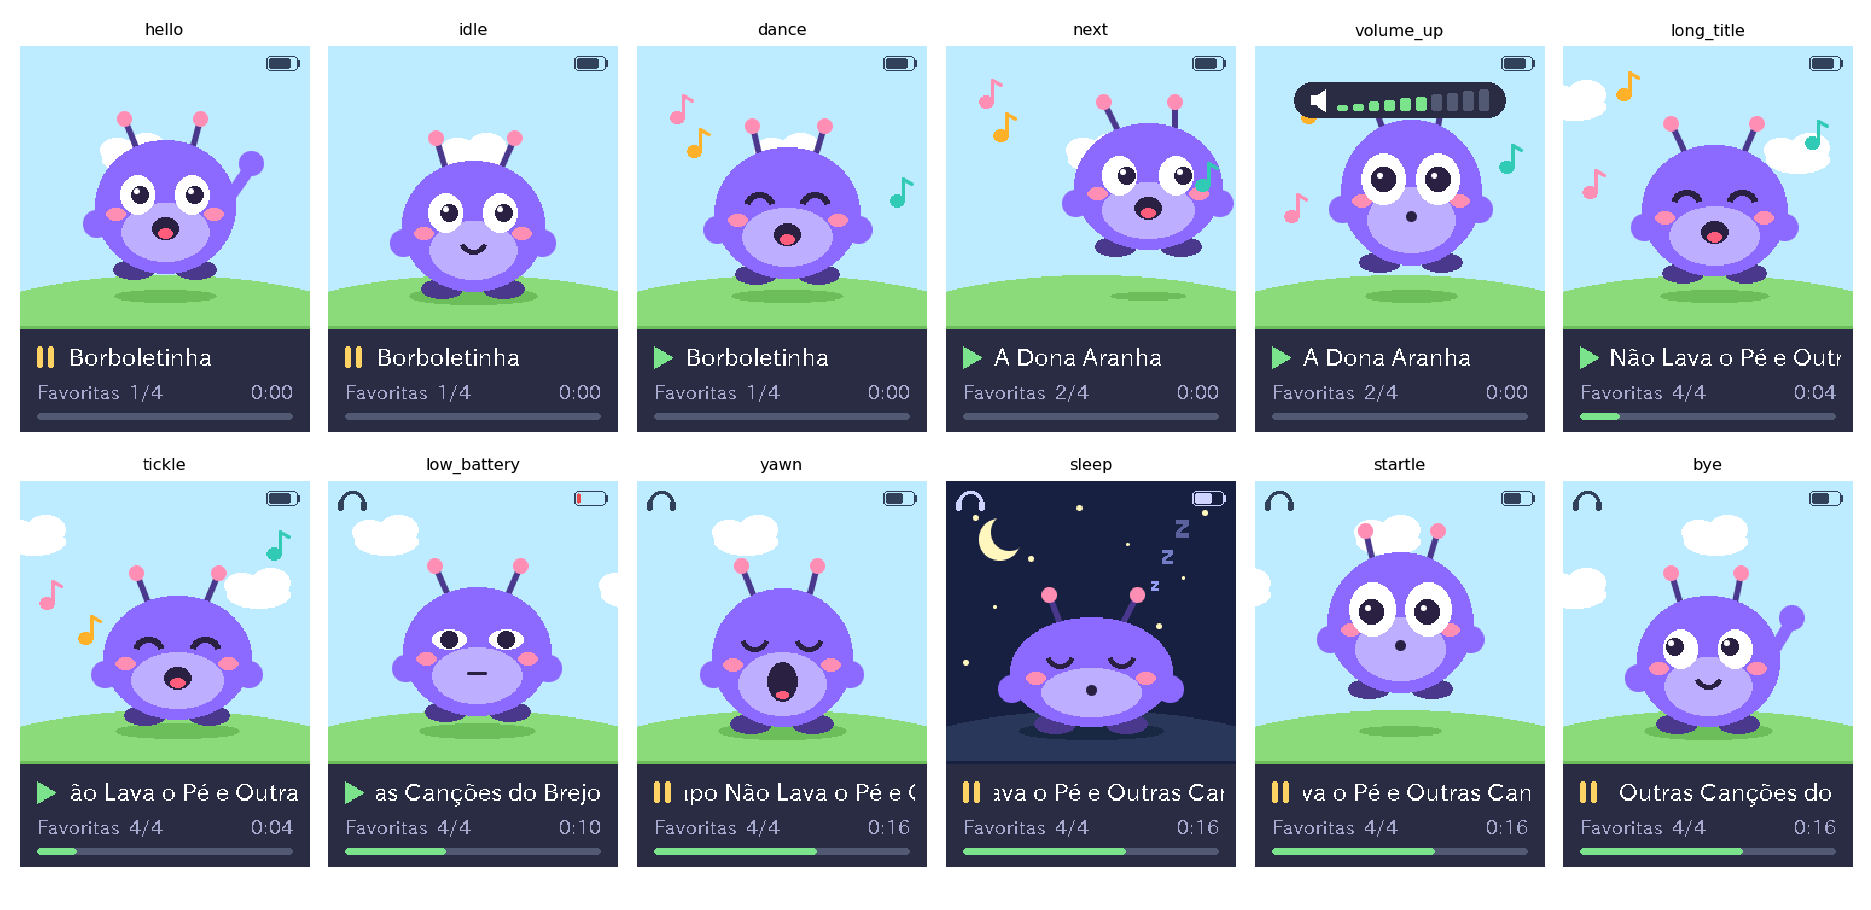
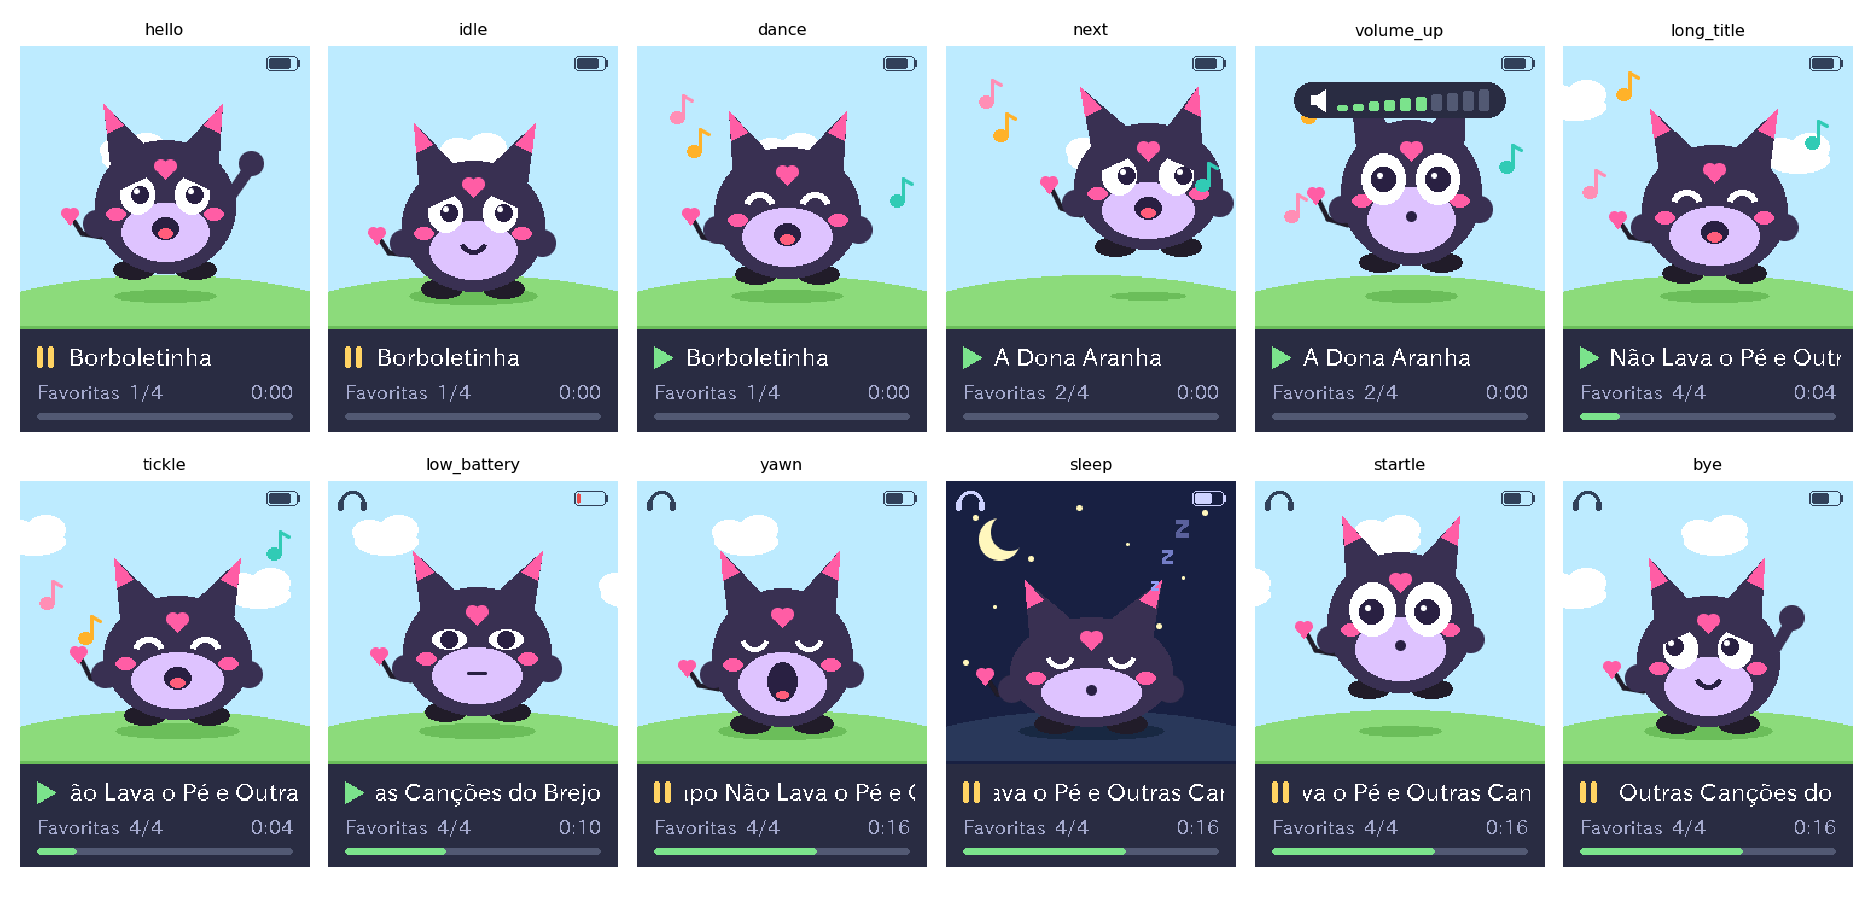
Restyle the pet: dark, cute imp look with pointed ears and heart tail

diff --git a/firmware/src/pet.cpp b/firmware/src/pet.cpp
@@ -159,10 +159,11 @@ Pet::Pose Pet::pose() const {
 void Pet::draw(lgfx::LovyanGFX& g, int cx, int groundY, uint32_t shadowColor) const {
   const Pose p = pose();
   const uint32_t body = color_;
-  const uint32_t belly = mix(body, 0xFFFFFFu, 0.45f);
+  const uint32_t belly = 0xD9C2FAu;                  // lilac tummy and muzzle
   const uint32_t dark = mix(body, 0x000000u, 0.45f);
   const uint32_t ink = 0x2B2140u;
-  const uint32_t pink = 0xFF8FB1u;
+  const uint32_t pink = 0xFF5FA2u;
+  const uint32_t line = 0xFFFFFFu;                   // closed eyes, drawn on the dark body
 
   const float rx = kBodyRx * p.sx, ry = kBodyRy * p.sy;
   const float x = cx + p.dx;
@@ -172,13 +173,27 @@ void Pet::draw(lgfx::LovyanGFX& g, int cx, int groundY, uint32_t shadowColor) co
   float sh = 1 - fminf(p.lift, 40) / 80;
   g.fillEllipse(x, groundY + 3, 54 * p.sx * sh, 7 * sh, shadowColor);
 
-  // Antennas, wobbling a little.
+  // Little tail with a heart tip, wagging behind the body.
+  {
+    float wag = 5 * sinf(t_ * 4);
+    float bx = x - rx + 6, by = y + ry * 0.45f;
+    float mx = bx - 16, my2 = by - 4 + wag * 0.4f;
+    float tx = bx - 26, ty = by - 22 + wag;
+    g.drawWideLine(bx, by, mx, my2, 2.0f, dark);
+    g.drawWideLine(mx, my2, tx, ty, 2.0f, dark);
+    g.fillSmoothCircle(tx - 3, ty - 2, 4, pink);
+    g.fillSmoothCircle(tx + 3, ty - 2, 4, pink);
+    g.fillTriangle(tx - 7, ty - 1, tx + 7, ty - 1, tx, ty + 8, pink);
+  }
+
+  // Pointed ears with pink tips, leaning outwards and wobbling a little.
   for (int s = -1; s <= 1; s += 2) {
-    float wob = 4 * sinf(t_ * 3 + s) + p.dx * 0.15f;
-    float bx = x + s * 22 * p.sx, by = y - ry * 0.8f;
-    float tx = x + s * 32 * p.sx - wob, ty = y - ry - 18;
-    g.drawWideLine(bx, by, tx, ty, 2.5f, dark);
-    g.fillSmoothCircle(tx, ty, 6, pink);
+    float wob = 3 * sinf(t_ * 3 + s) + p.dx * 0.15f;
+    float b0x = x + s * 12 * p.sx, b1x = x + s * 44 * p.sx, by = y - ry * 0.62f;
+    float tx = x + s * 50 * p.sx - wob, ty = y - ry - 30;
+    g.fillTriangle(b0x, by - 12, b1x, by + 10, tx, ty, body);
+    float kx = tx + (b0x + b1x - 2 * tx) * 0.19f, ky = ty + (by - ty) * 0.38f;
+    g.fillTriangle(tx, ty, kx - s * 7, ky - 2, kx + s * 6, ky + 5, pink);
   }
 
   // Feet.
@@ -208,16 +223,28 @@ void Pet::draw(lgfx::LovyanGFX& g, int cx, int groundY, uint32_t shadowColor) co
   for (int s = -1; s <= 1; s += 2) {
     float ex = x + s * 23 * p.sx;
     if (p.happyEyes) {
-      g.fillArc(ex, ey + 6, 9, 13, 200, 340, ink);          // ^ ^
+      g.fillArc(ex, ey + 6, 9, 13, 200, 340, line);         // ^ ^
     } else if (p.eyeOpen < 0.2f) {
-      g.fillArc(ex, ey - 6, 9, 12, 20, 160, ink);           // closed
+      g.fillArc(ex, ey - 6, 9, 12, 20, 160, line);          // closed
     } else {
       float erx = 14 * p.eyeScale, ery = 16 * p.eyeScale * p.eyeOpen;
       g.fillEllipse(ex, ey, erx, ery, 0xFFFFFFu);
       float pr = 7.5f * p.eyeScale;
       g.fillEllipse(ex + p.px, ey + p.py, pr, fminf(pr, ery - 1), ink);
       if (ery > 8) g.fillSmoothCircle(ex + p.px - 3, ey + p.py - 3, 2, 0xFFFFFFu);
+      // Cheeky slanted eyelid, hidden when the eyes go wide.
+      if (p.eyeScale < 1.1f && ery > 8)
+        g.fillTriangle(ex - s * (erx + 2), ey - ery - 3, ex + s * (erx + 2), ey - ery - 3,
+                       ex + s * (erx + 2), ey - ery * 0.25f, body);
     }
+  }
+
+  // Small heart on the forehead.
+  {
+    float hx = x, hy = y - ry * 0.62f;
+    g.fillSmoothCircle(hx - 4, hy, 5, pink);
+    g.fillSmoothCircle(hx + 4, hy, 5, pink);
+    g.fillTriangle(hx - 9, hy + 1, hx + 9, hy + 1, hx, hy + 11, pink);
   }
 
   // Mouth.

diff --git a/firmware/src/config.h b/firmware/src/config.h
@@ -35,6 +35,6 @@ constexpr uint32_t kRepeatMs = 250;
 constexpr int kBatteryLowPercent = 15;
 constexpr int kBatteryEmptyPercent = 4;
 
-constexpr uint32_t kPetColor = 0x8A6BFFu;        // default body colour (RGB888)
+constexpr uint32_t kPetColor = 0x3B3350u;        // default body colour (RGB888)
 
 }  // namespace zpod

diff --git a/firmware/src/app.cpp b/firmware/src/app.cpp
@@ -34,6 +34,7 @@ void App::begin() {
   loaded_ = playing_ = false;
   battery_ = hal_.batteryPercent();
   pet_.setTired(battery_ < kBatteryLowPercent);
+  pet_.setColor(kPetColor);
   pet_.setMood(Mood::Idle);
   pet_.react(Reaction::Hello);
   screenOn_ = true;

diff --git a/firmware/src/pet.h b/firmware/src/pet.h
@@ -42,7 +42,7 @@ class Pet {
   float t_ = 0;
   float blink_ = 2.5f;
   bool tired_ = false;
-  uint32_t color_ = 0x8A6BFFu;
+  uint32_t color_ = 0x3B3350u;
 };
 
 }  // namespace zpod

diff --git a/DECISIONS.md b/DECISIONS.md
@@ -24,7 +24,7 @@ An MP3 player with a virtual pet for a 6-year-old. Built from scratch: electroni
 | 7 | Audio chain | MAX98357A (speaker) + PCM5102A (headphone jack) on the same I2S bus | Good quality, cheap; firmware mutes the speaker when headphones are detected; the PCM5102A's weak output helps limit volume. | 2026-11-16 |
 | 8 | Battery | LiPo 603450 ~1200 mAh with protection | Thinner, lighter device; ~6–8 h of music. | 2026-11-16 |
 | 9 | Loading music | Internal microSD (screwed in) + Wi-Fi upload in "parent mode" | Closed case, no loose parts; the child can't remove the card. | 2026-11-16 |
-| 10 | Pet | Original little blob monster, drawn in code (vector shapes, not sprites) | Smooth animation, many expressions with little art work; the child picks its color and name. | 2026-11-16 |
+| 10 | Pet | Original little blob monster, drawn in code (vector shapes, not sprites). Restyled to a dark, cute imp look (charcoal body, lilac tummy, pink-tipped ears, heart tail) at the child's request; an original character, not a copy of an existing one. | Smooth animation, many expressions with little art work; the child picks its color and name. | 2026-11-16 |
 | 11 | Form factor | Vertical, iPod-style: display on top, buttons in a cross below, touch on the top edge | Fits a small hand, simple internal layout. | 2026-11-16 |
 | 12 | Printing | Single-color parts, no AMS; contrast comes from printing body and buttons in different colors | Works on any A1, no purge waste. | 2026-11-16 |
 | 13 | Firmware | PlatformIO + Arduino (ESP32-audioI2S for MP3, LovyanGFX for display/pet, web server for upload) | Fastest path to a playing prototype. | 2026-11-16 |
